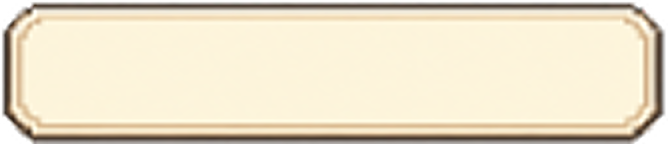
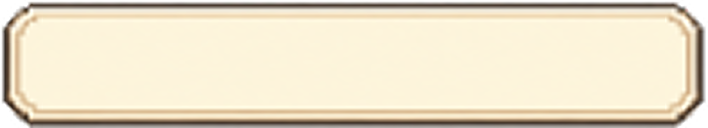
style : 농장 사용자 정보 바 디자인 변경
- 사용자 정보 바 배경 이미지를 새 에셋으로 교체
- 닉네임 여섯 글자 표시 영역과 DX 늘리 미디움 폰트 적용

Changed region(s): [[0.9281, 0.0, 1.0, 1.0], [0.0, 0.0, 0.0599, 1.0]]

diff --git a/src/widgets/farm-status-bar/ui/FarmStatusBar.tsx b/src/widgets/farm-status-bar/ui/FarmStatusBar.tsx
@@ -33,7 +33,7 @@ export function FarmStatusBar({
 
 const styles = StyleSheet.create({
   container: {
-    width: scaleByDeviceWidth(144),
+    width: scaleByDeviceWidth(177),
     height: scaleByDeviceWidth(32),
     paddingHorizontal: scaleByDeviceWidth(11),
     flexDirection: 'row',
@@ -45,10 +45,10 @@ const styles = StyleSheet.create({
     marginRight: scaleByDeviceWidth(5),
   },
   name: {
-    maxWidth: scaleByDeviceWidth(67),
+    maxWidth: scaleByDeviceWidth(90),
     color: '#332F27',
-    fontSize: scaleByDeviceWidth(15),
-    fontWeight: '700',
+    fontFamily: 'EliceDXNeolli-Medium',
+    fontSize: scaleByDeviceWidth(14),
   },
   levelBadge: {
     minWidth: scaleByDeviceWidth(40),
